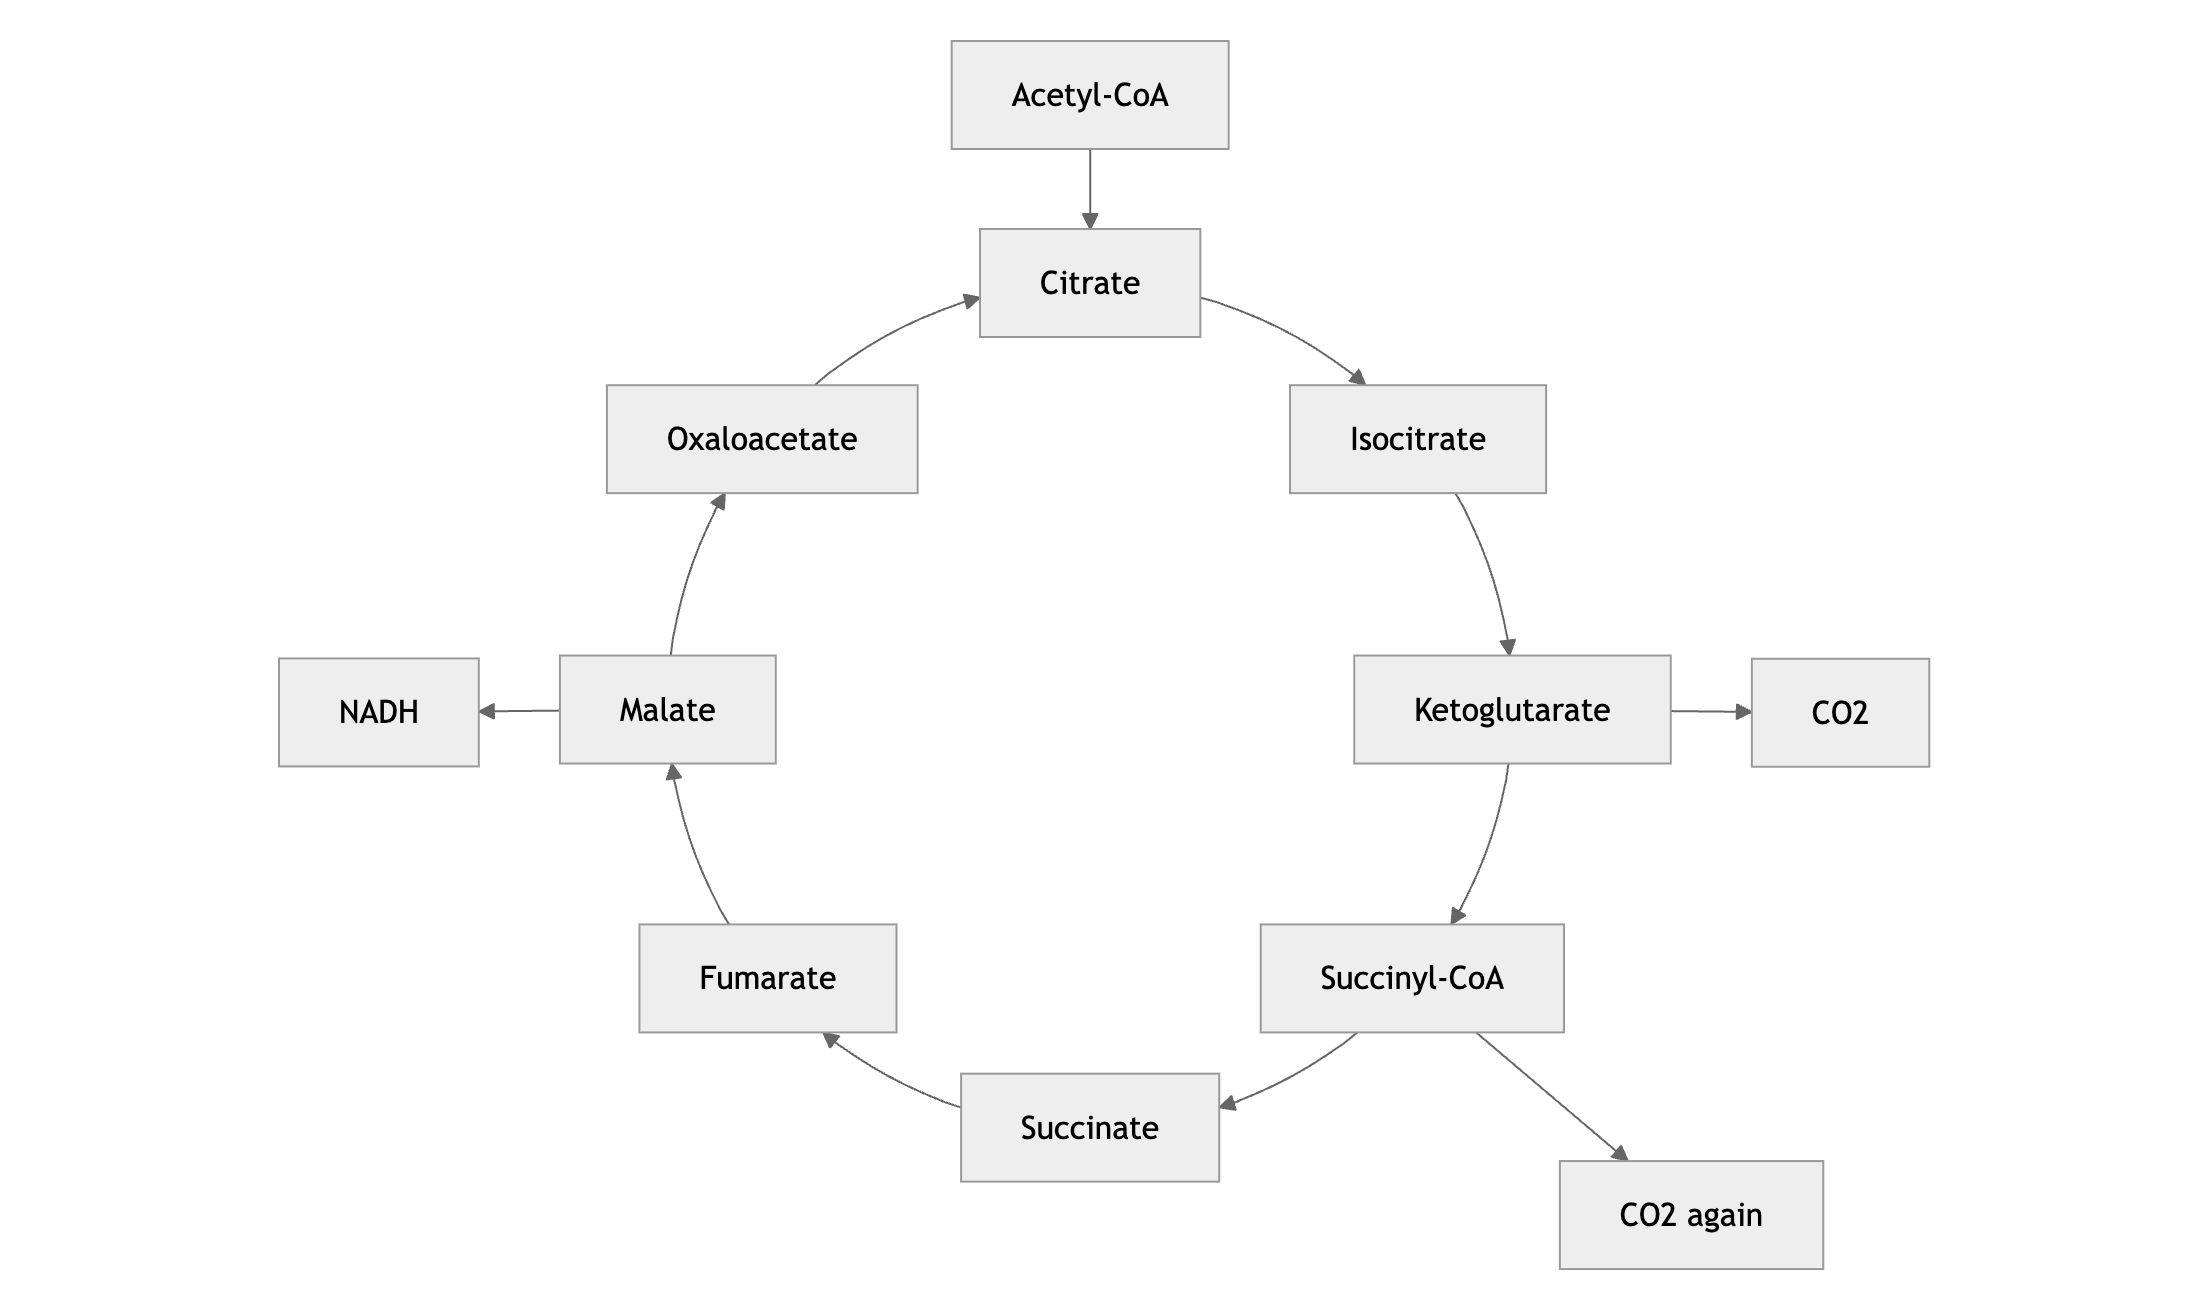
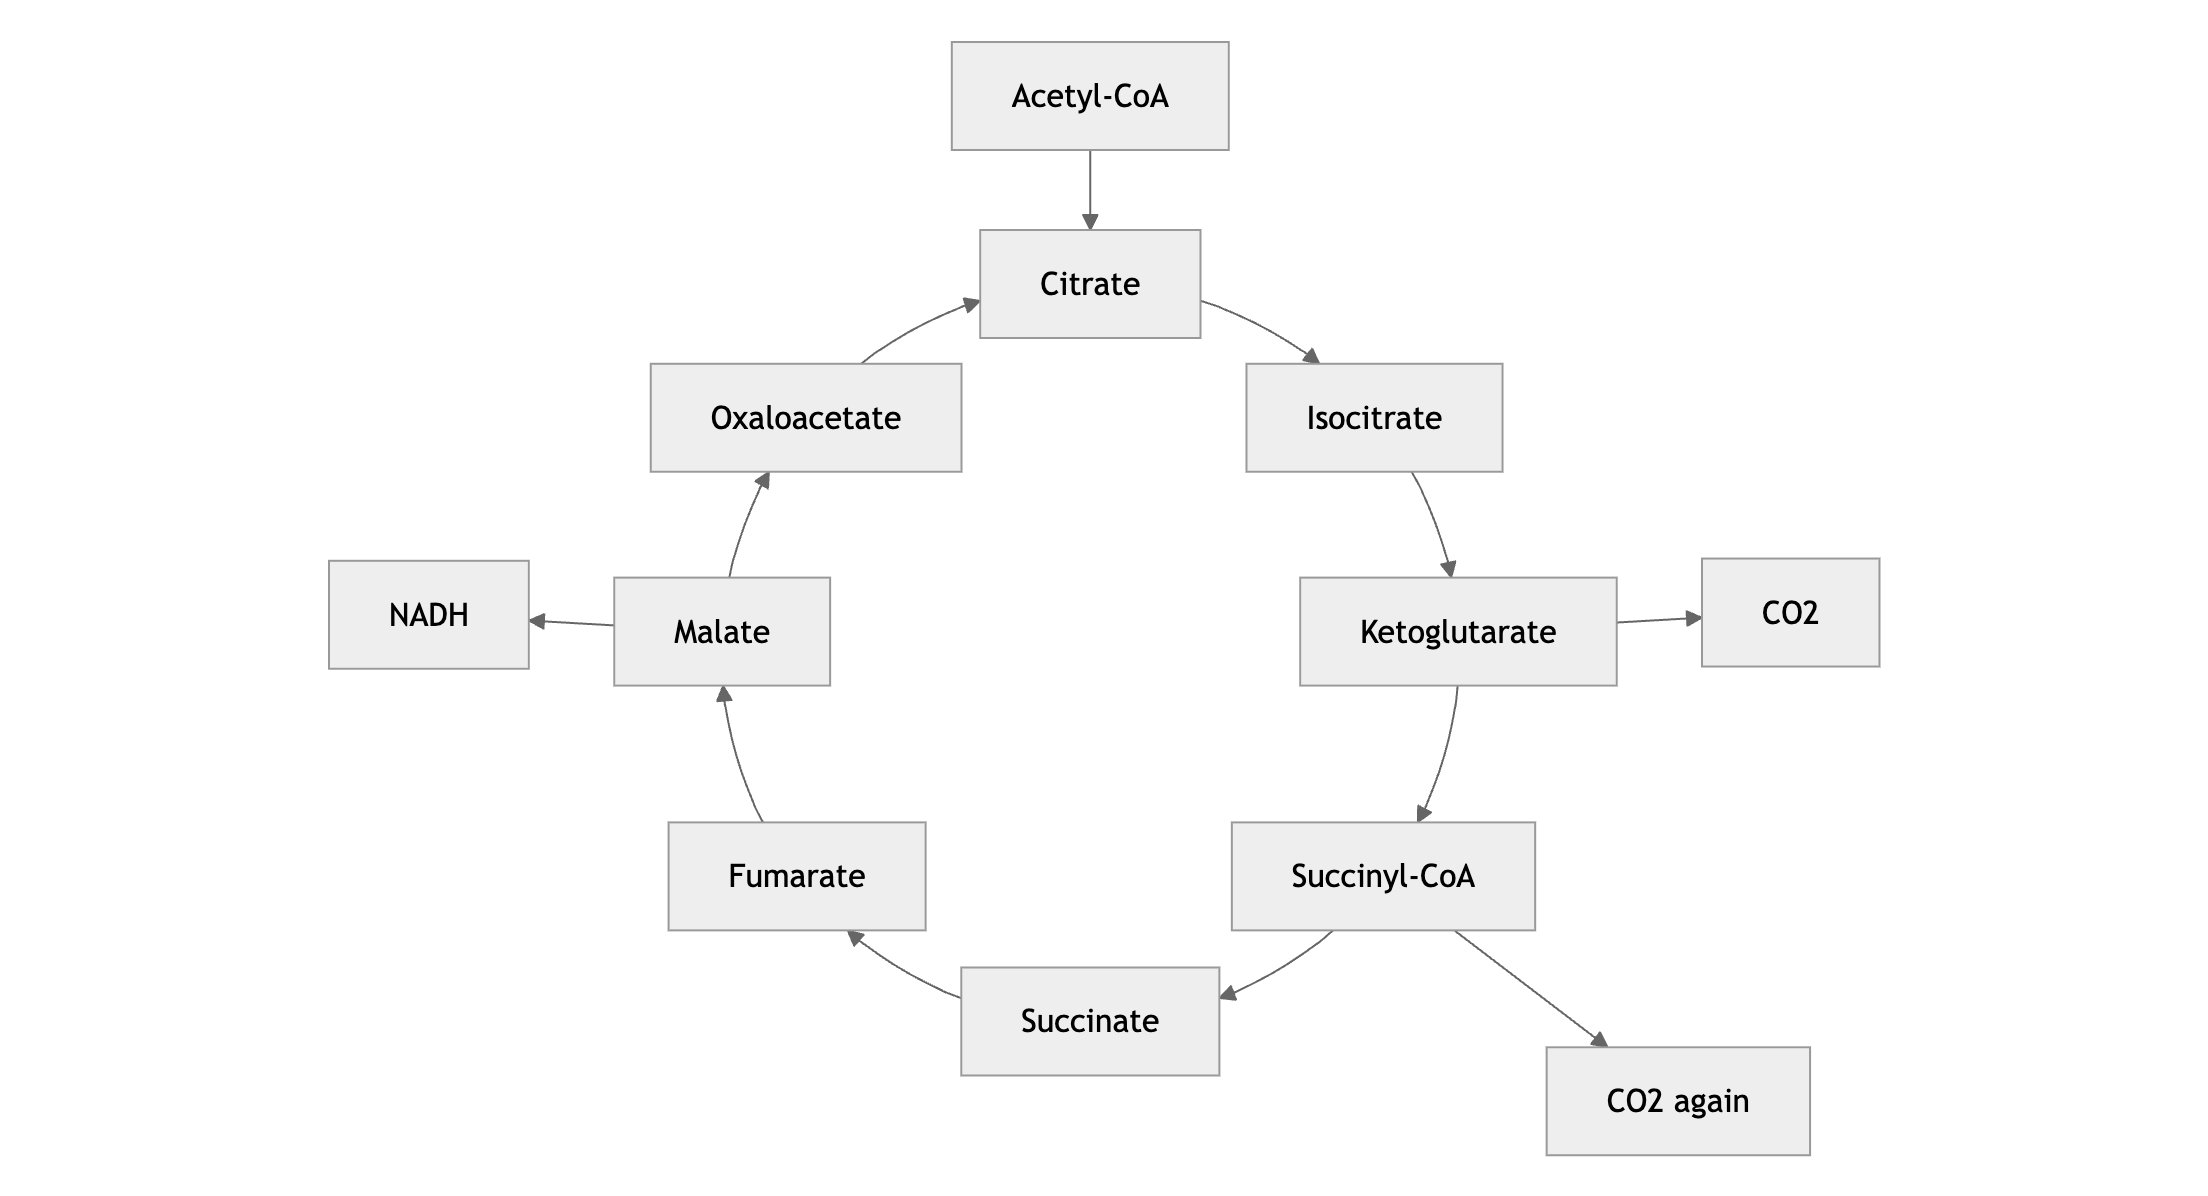
fix: claims measured at the rim crossings — arrows equal to the pixel
The linearized tangential extent was an estimate, and the author's
eye caught its 10–25% bias: side arrows long, the bottom arrow
stubby, the same pattern as before only smaller. Each box's claim on
the circle is now the exact arc between the true rim crossings of
its border, measured with the same bisection the router draws with,
so the equalized gaps are the drawn arrows by construction.

Two solver truths surfaced on the way. A claim jumps steeply where
the crossing migrates between a box's side and its top or bottom
edge, and an undamped relaxation bounces across that cliff forever —
the update is now damped by half. And the loop had been declaring
victory when collisions settled rather than when the angles stopped
moving, which left the fixed point half-reached; convergence now
means convergence. The test pins what the eye measures: every rim
path in the five-box water cycle draws at the same length to the
tenth of a pixel.

(generated using Claude Fable 5)

diff --git a/src/layout.ts b/src/layout.ts
@@ -503,17 +503,6 @@ export const circularLayout = (
       kids.reduce((sum, kid) => sum + treeWidth(kid, angle), 0) + (kids.length - 1) * spacing;
     return Math.max(own, kidsWidth);
   };
-  const effectiveExtent = (id: string, angle: number): number => {
-    const kids = childrenOf.get(id) ?? [];
-    const own = tangentialExtent(byId.get(id)!, angle);
-    if (kids.length === 0) {
-      return own;
-    }
-    const kidsWidth =
-      kids.reduce((sum, kid) => sum + treeWidth(kid, angle), 0) + (kids.length - 1) * spacing;
-    return Math.max(own, kidsWidth / 2);
-  };
-
   // A labeled edge between rim neighbors needs its gap to hold the
   // label; the widest such label sets the uniform gap for the whole
   // ring, so the arrows stay equal AND inhabited.
@@ -538,26 +527,42 @@ export const circularLayout = (
   const targetGap = Math.max(spacing, labeledGapNeed);
 
   // Solve angles so the free arc between neighboring borders is the
-  // same everywhere — the eye judges the arrows, not the angles. The
-  // extents depend on the angles and the angles on the extents, so
-  // iterate; then mirror the side pairs so the ring stays symmetric,
-  // with the first node pinned to the top. The radius follows from
-  // the same equation (2πR = n·gap + 2Σextent) and rises if any two
-  // boxes anywhere on the ring would come too close. The extent
-  // linearization needs the radius to dwarf the boxes, so small
-  // rings keep a floor of 1.6 footprints.
+  // same everywhere — the eye judges the arrows, not the angles.
+  // Each box's claim on the circle is measured exactly, as the arc
+  // between the true rim crossings of its border (an estimate from
+  // the tangent line ran 10–25% off for oblique boxes, and the
+  // errors showed as visibly unequal arrows). Claims depend on the
+  // angles and the angles on the claims, so iterate; then mirror the
+  // side pairs so the ring stays symmetric, with the first node
+  // pinned to the top. The radius follows from the same equation
+  // (2πR = n·gap + Σclaims) and rises if any two boxes anywhere on
+  // the ring would come too close. Small rings keep a floor of 1.6
+  // footprints so the crossings exist at all.
   let radius = 1.6 * Math.max(...rimNodes.map(footprint));
-  let angles: number[] = order.map((_, i) => startAngle + (i * TAU) / nRim);
-  for (let round = 0; round < 60; round++) {
-    const extents = order.map((id, i) => effectiveExtent(id, angles[i]!));
-    const extentSum = 2 * extents.reduce((a, b) => a + b, 0);
-    const nextRadius = Math.max((nRim * targetGap + extentSum) / TAU, radius);
-    const gap = (TAU * nextRadius - extentSum) / nRim;
+  const angles: number[] = order.map((_, i) => startAngle + (i * TAU) / nRim);
+  const claimOf = (id: string, angle: number, r: number): { back: number; fwd: number } => {
+    const node = byId.get(id)!;
+    const home: BoxAt = { ...onCircle(r, angle), width: node.width, height: node.height };
+    const fwd = (rimCrossing(r, home, angle, angle + Math.PI) - angle) * r;
+    const back = (angle - rimCrossing(r, home, angle, angle - Math.PI)) * r;
+    const kids = childrenOf.get(id) ?? [];
+    if (kids.length === 0) {
+      return { back, fwd };
+    }
+    const kidsWidth =
+      kids.reduce((sum, kid) => sum + treeWidth(kid, angle), 0) + (kids.length - 1) * spacing;
+    return { back: Math.max(back, kidsWidth / 2), fwd: Math.max(fwd, kidsWidth / 2) };
+  };
+  for (let round = 0; round < 300; round++) {
+    const claims = order.map((id, i) => claimOf(id, angles[i]!, radius));
+    const claimSum = claims.reduce((sum, c) => sum + c.back + c.fwd, 0);
+    const nextRadius = Math.max((nRim * targetGap + claimSum) / TAU, radius);
+    const gap = (TAU * nextRadius - claimSum) / nRim;
     // Lay the ring sequentially, then symmetrize mirror pairs
     // (i and n−i reflect across the vertical axis: θ ↦ π − θ).
     const next: number[] = [startAngle];
     for (let i = 1; i < nRim; i++) {
-      next.push(next[i - 1]! + (extents[i - 1]! + extents[i]! + gap) / nextRadius);
+      next.push(next[i - 1]! + (claims[i - 1]!.fwd + gap + claims[i]!.back) / nextRadius);
     }
     for (let i = 1; i * 2 < nRim; i++) {
       const mirrored = (next[i]! + (Math.PI - next[nRim - i]!)) / 2;
@@ -567,7 +572,16 @@ export const circularLayout = (
     if (nRim % 2 === 0) {
       next[nRim / 2] = Math.PI / 2;
     }
-    angles = next;
+    // Damped update: a claim jumps steeply where the rim crossing
+    // moves from a box's side to its top or bottom edge, and an
+    // undamped relaxation bounces across that cliff instead of
+    // settling.
+    let maxDelta = 0;
+    for (let i = 0; i < nRim; i++) {
+      const blended = (angles[i]! + next[i]!) / 2;
+      maxDelta = Math.max(maxDelta, Math.abs(blended - angles[i]!));
+      angles[i] = blended;
+    }
     radius = nextRadius;
 
     // No two rim boxes may come closer than their supports allow —
@@ -594,7 +608,10 @@ export const circularLayout = (
       radius *= scale;
       continue;
     }
-    if (round > 4 && scale <= 1.001) {
+    // Converged only when the angles have actually stopped moving —
+    // breaking as soon as collisions settle left the fixed point
+    // half-reached and the gaps visibly unequal.
+    if (round > 4 && maxDelta < 1e-4) {
       break;
     }
   }

diff --git a/src/layout.test.ts b/src/layout.test.ts
@@ -111,37 +111,30 @@ describe('placement', () => {
   });
 });
 
-const tangentialExtent = (w: number, h: number, angle: number) =>
-  (Math.abs(Math.sin(angle)) * w) / 2 + (Math.abs(Math.cos(angle)) * h) / 2;
-
 describe('uniform gaps', () => {
-  it('equalizes the visible arrows: free arcs between wide boxes stay within a fifth of each other', () => {
+  it('equalizes the drawn arrows themselves: rim path lengths stay within a sixth of each other', () => {
     // The water-cycle shape that showed a stubby bottom arrow: five
-    // wide boxes whose tangential claims differ by position.
+    // wide boxes whose claims on the circle differ by position. The
+    // measurement is what the eye measures — the length of each
+    // routed rim path.
     const ids = ['A', 'B', 'C', 'D', 'E'];
-    const { nodes, order, radius } = circularLayout(
+    const { edges } = circularLayout(
       ids.map((id) => box(id, 150, 50)),
       cycle(...ids)
     );
-    const byId = new Map(nodes.map((n) => [n.id, n]));
-    const gaps: number[] = [];
-    for (let i = 0; i < order.length; i++) {
-      const here = byId.get(order[i]!)!;
-      const next = byId.get(order[(i + 1) % order.length]!)!;
-      let delta = next.angle - here.angle;
-      while (delta <= 0) {
-        delta += 2 * Math.PI;
+    const lengths = edges.map((e) => {
+      let length = 0;
+      for (let i = 1; i < e.points.length; i++) {
+        length += dist(e.points[i - 1]!, e.points[i]!);
       }
-      gaps.push(
-        radius * delta -
-          tangentialExtent(150, 50, here.angle) -
-          tangentialExtent(150, 50, next.angle)
-      );
-    }
-    const widest = Math.max(...gaps);
-    const slimmest = Math.min(...gaps);
-    expect(slimmest).toBeGreaterThan(0);
-    expect(widest / slimmest).toBeLessThan(1.2);
+      return length;
+    });
+    const longest = Math.max(...lengths);
+    const shortest = Math.min(...lengths);
+    expect(shortest).toBeGreaterThan(0);
+    expect(longest / shortest, `arrow lengths ${lengths.map((l) => l.toFixed(0)).join(', ')}`).toBeLessThan(
+      1.17
+    );
   });
 
   it('still mirrors side pairs after equalization', () => {

diff --git a/docs/DECISIONS.md b/docs/DECISIONS.md
@@ -105,6 +105,19 @@ update the README beside it.
   come too close — with a 1.6-footprint floor, because the extent
   linearization lies when the radius stops dwarfing the boxes (the
   two-node lens collapsed to prove it).
+- **2026-08-09 — The fifth review: claims are measured, not
+  estimated.** Gap equalization on linearized tangential extents
+  still left the bottom arrow visibly stubby — the estimate runs
+  10–25% off for boxes oblique to the rim, always in the same
+  directions. Each box's claim is now the exact arc between the true
+  rim crossings of its border (the same bisection the router uses),
+  the relaxation is damped (a claim jumps steeply where the crossing
+  moves between a box's side and its top edge, and undamped rounds
+  bounce across the cliff), and convergence means the angles stopped
+  moving — not merely that collisions settled, which had been
+  breaking the loop half-way to the fixed point and was the actual
+  bug. The pin is what the eye measures: all five water-cycle arrows
+  now draw at the same length to the tenth of a pixel.
 - **2026-08-09 — Spurs: the ring is the 2-core.** Peeling nodes with
   a single neighbor, repeatedly, leaves exactly the cycle; the
   peeled forest hangs radially off its attachment nodes, deeper
